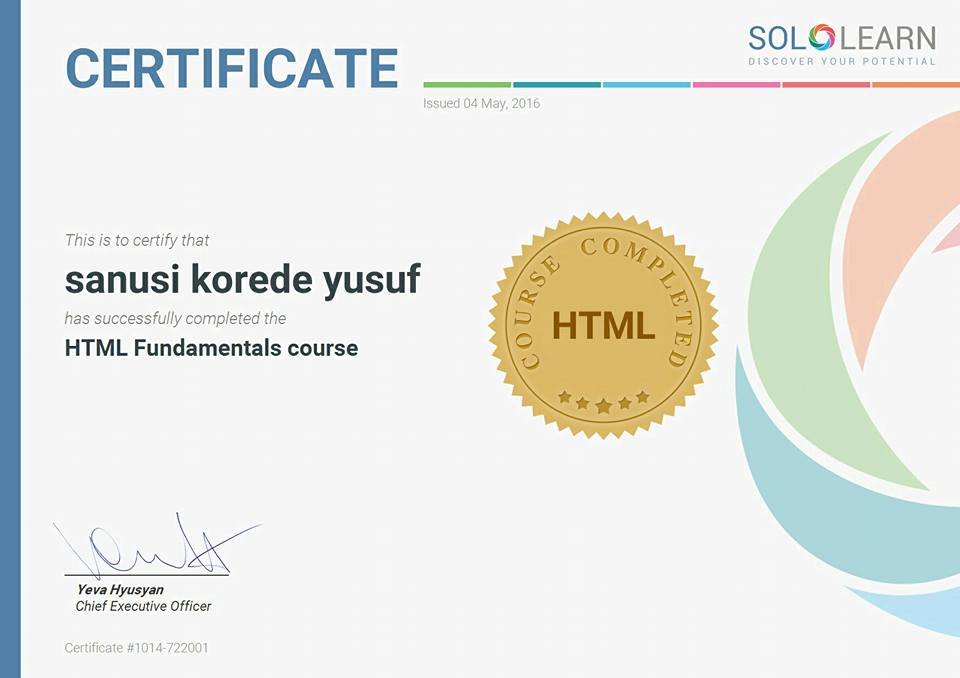
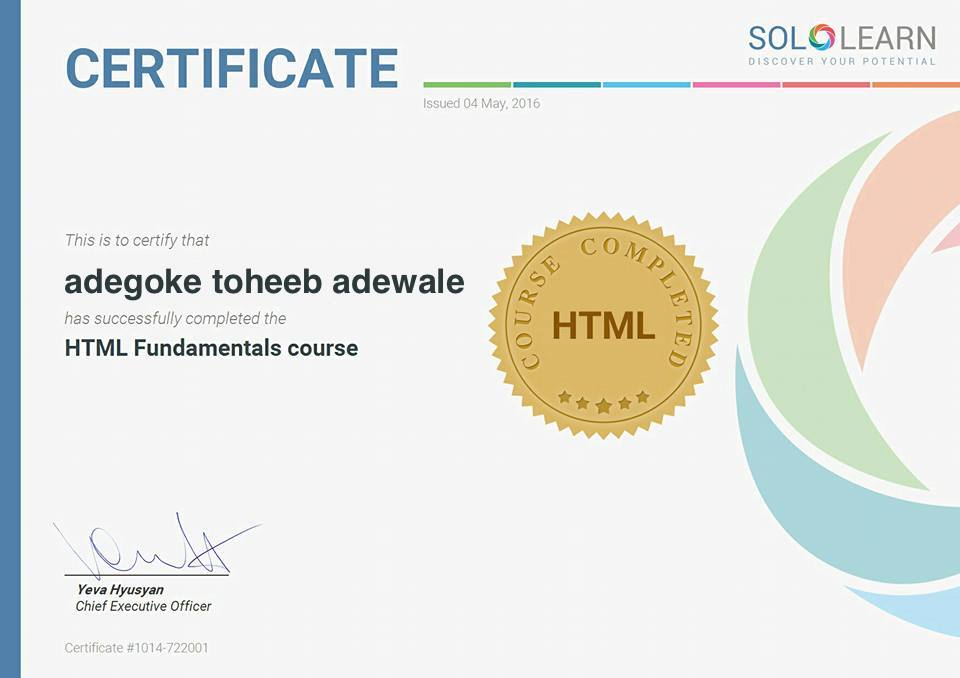
update all

Changed region(s): [[0.0625, 0.3717, 0.5, 0.4646]]

diff --git a/index.html b/index.html
@@ -1,7 +1,7 @@
 <!DOCTYPE html>
 <html lang="en">
   <head>
-    <title>Sanusi Yusuf Korede</title>
+    <title>Toheeb Adegoke</title>
     <meta charset="UTF-8" />
     <meta name="description" content="Yusuf Korede, Sanusi - Résumé" />
     <meta name="keywords" content="Yusuf Korede, Sanusi - Résumé" />
@@ -39,7 +39,7 @@
     <!--====== Header Section Start ======-->
     <header class="header-section">
       <div class="logo">
-        <a href="index.html"><img src="img/logo.png" alt="" /></a
+        <a href="index.html"><img src="img/logoTo.png" alt="" /></a
         ><!-- Logo -->
       </div>
       <!-- <div class="responsive"><i class="fa fa-bars"></i></div>-->
@@ -59,7 +59,7 @@
         <div class="intro-content">
           <div id="round"></div>
           <div class="profile-img">
-            <img src="img/3287ed42-2c28-4e80-8cf4-7c02ac6424c5.JPG" alt="" />
+            <img src="img/teeTechWF.jpg" alt="" />
           </div>
           <h2><span class="element"></span></h2>
           <br />
@@ -72,35 +72,35 @@
           <a
             class="site-btnsocialf"
             id="facebook"
-            href="https://www.facebook.com/sanusi.k.yusuf"
+            href="https://www.facebook.com/elekuja"
             target="_blank"
             ><i class="fa fa-facebook fa-4x"></i
           ></a>
           <a
             class="site-btnsocialt"
             id="twitter"
-            href="https://twitter.com/sanusikorede1"
+            href="https://twitter.com/elekujay"
             target="_blank"
             ><i class="fa fa-twitter fa-4x"></i
           ></a>
           <a
             class="site-btnsociall"
             id="linkedin"
-            href="https://www.linkedin.com/in/skyusuf15/"
+            href="https://www.linkedin.com/in/toheeb-adegoke/"
             target="_blank"
             ><i class="fa fa-linkedin fa-4x"></i
           ></a>
           <a
             class="site-btnsociall"
             id="github"
-            href="https://www.github.com/skyusuf15/"
+            href="https://www.github.com/teetech01/"
             target="_blank"
             ><i class="fa fa-github fa-4x"></i
           ></a>
           <a
             class="site-btnsocialw"
             id="whatsapp"
-            href="https://api.whatsapp.com/send?phone=2348104864908"
+            href="https://api.whatsapp.com/send?phone=2348184613415"
             target="_blank"
             ><i class="fa fa-whatsapp fa-4x"></i
           ></a>
@@ -118,29 +118,30 @@
               <h2><span id="story-heading"></span></h2>
               <p>
                 I'm <b>Adegoke Toheeb Adewale.</b> Experienced Software Engineer
-                with a demonstrated skills to tackle complex
+                with demonstrated skills to tackle complex
 				software problems and history of working in the Fintech industry. Fluent in PHP,
-				JavaScript programming languages
+				JavaScript programming languages, Microsoft .NET & Microsoft SQL Server 
 				and open to using new technology to
-				achieve business objectives. Strong engineering professional with a
-                National Diploma(ND) focused in Computer Science from Kwara
+				achieve business objectives. Strong engineering professional with Higher 
+                National Diploma(HND) focused in Computer Science from Lagos
                 State Polytechnic. 
               </p>
-
+              <br />
               <h2>Personal Achievements</h2>
               <p>
-                Asides earning a degree in Computer Science, I have a couples of
-                more programming certificate, see
-                <a href="#certificate"> below </a>. I have also built several
-                web based products, and maintained several CRM Applications for
+                Aside earning a Higher Diploma in Computer Science, I have several other trainings & certifications in Programming, Computer Hardware, Networking,
+                VPN Implemementation, Firewalling, Internet Security, VSAT Installation & Maintenance, Advanced Structured Cabling, Fiber Optics Installation Professional,
+                Data Storage, IP Surveillance project implementation, Prime Access Control with workforce Management of, see
+                <a href="#certificate"> below</a>. I have also built several
+                web based products, and maintained several CRM & ERP Applications for
                 different companies.
               </p>
 
               <p>
                 <b
                   >Current Employer:
-                  <a href="https://www.indicina.co">
-                    Indicina Technologies.
+                  <a href="https://www.dpr.gov.ng">
+                    Department of Petroleum Resources (DPR).
                   </a></b
                 >
               </p>
@@ -152,20 +153,20 @@
             <div class="col-md-5 skill">
               <div>
                 <img
-                  src="img/3287ed42-2c28-4e80-8cf4-7c02ac6424c2.JPG"
-                  alt="Sanusi Yusuf Korede"
+                  src="img/teeTechWS.JPG"
+                  alt="Toheeb Adegoke"
                 />
               </div>
               <br />
               <!-- Skill item -->
               <div class="single-progress-item">
-                <p>Laravel</p>
+                <p>Javascript/ES6</p>
                 <div class="progress-bar-style" data-progress="90"></div>
               </div>
               <!-- Skill item -->
               <div class="single-progress-item">
-                <p>Javascript/ES6</p>
-                <div class="progress-bar-style" data-progress="90"></div>
+                <p>PHP</p>
+                <div class="progress-bar-style" data-progress="80"></div>
               </div>
               <!-- Skill item -->
               <div class="single-progress-item">
@@ -174,32 +175,29 @@
               </div>
               <!-- Skill item -->
               <div class="single-progress-item">
-                <p>Python</p>
-                <div class="progress-bar-style" data-progress="67"></div>
-              </div>
-
-              <!-- Skill item -->
-              <div class="single-progress-item">
-                <p>GraphQL</p>
-                <div class="progress-bar-style" data-progress="77"></div>
-              </div>
-
-              <!-- Skill item -->
-              <div class="single-progress-item">
-                <p>Jest Testing Framework</p>
+                <p>VB .Net</p>
                 <div class="progress-bar-style" data-progress="60"></div>
               </div>
+              <!-- Skill item -->
+              <div class="single-progress-item">
+                <p>HTML</p>
+                <div class="progress-bar-style" data-progress="90"></div>
+              </div>
+              <!-- Skill item -->
+              <div class="single-progress-item">
+                <p>CSS</p>
+                <div class="progress-bar-style" data-progress="85"></div>
+              </div>
 
               <!-- Skill item -->
               <div class="single-progress-item">
-                <p>CI/CD/DevOps</p>
+                <p>Testing Framework</p>
                 <div class="progress-bar-style" data-progress="60"></div>
               </div>
-
               <!-- Skill item -->
               <div class="single-progress-item">
                 <p>Third Party Integrations</p>
-                <div class="progress-bar-style" data-progress="65"></div>
+                <div class="progress-bar-style" data-progress="70"></div>
               </div>
             </div>
           </div>
@@ -215,25 +213,6 @@
           </div>
 
           <div class="row isotope_items">
-            <!-- Work item -->
-            <div class="col-md-4 col-sm-6 col-xs-12 fs">
-              <a
-                class="work-item"
-                href="./img/certificates/42897555_2157648114305306_5266754739650953216_n.jpg"
-              >
-                <img
-                  src="./img/certificates/42897555_2157648114305306_5266754739650953216_n.jpg"
-                  alt="Issued By edX"
-                />
-                <div class="work-inner">
-                  <div class="work-info">
-                    <h2>DAT208x: Introduction to Python for Data Science</h2>
-                    <h3>View</h3>
-                  </div>
-                </div>
-              </a>
-            </div>
-
             <!-- Work item -->
             <div class="col-md-4 col-sm-6 col-xs-12 fs">
               <a
@@ -255,17 +234,39 @@
 
             <!-- Work item -->
             <div class="col-md-4 col-sm-6 col-xs-12 fs">
+
+              <a
+              class="work-item"
+              href="./img/certificates/personal docx-19.jpg"
+            >
+              <img
+                src="./img/certificates/personal docx-19.jpg"
+                alt="Issued By NaijaHack"
+              />
+              <div class="work-inner">
+                <div class="work-info">
+                  <h2>2018 NAIJAHACKS HACKATON NIGERIA</h2>
+                  <h3>View</h3>
+                </div>
+              </div>
+            </a>
+
+
+            </div>
+
+            <!-- Work item -->
+            <div class="col-md-4 col-sm-6 col-xs-12 fs">
               <a
                 class="work-item"
-                href="./img/certificates/39953565_2094150053988446_9071326221731627008_n.jpg"
+                href="./img/certificates/personal docx-15.jpg"
               >
                 <img
-                  src="./img/certificates/39953565_2094150053988446_9071326221731627008_n.jpg"
-                  alt="Issued by United Global Resources Limited"
+                  src="./img/certificates/personal docx-15.jpg"
+                  alt="Issued by Kit Technologies Limited"
                 />
                 <div class="work-inner">
                   <div class="work-info">
-                    <h2>ORACLE JAVA SE7 FUNDAMENTALS & PROGRAMMING</h2>
+                    <h2>DATA STORAGE & DISASTER RECOVERY</h2>
                     <h3>View</h3>
                   </div>
                 </div>
@@ -400,6 +401,45 @@
                 </div>
               </a>
             </div>
+
+            <!-- Work item -->
+            <div class="col-md-4 col-sm-6 col-xs-12 ill">
+              <a
+                class="work-item"
+                href="./img/certificates/personal docx-16.jpg"
+              >
+                <img
+                  src="./img/certificates/personal docx-16.jpg"
+                  alt="Issued by Solo Learn"
+                />
+                <div class="work-inner">
+                  <div class="work-info">
+                    <h2>VSAT Earth Station Installation</h2>
+                    <h3>View</h3>
+                  </div>
+                </div>
+              </a>
+            </div>
+
+            <!-- Work item -->
+            <div class="col-md-4 col-sm-6 col-xs-12 ill">
+              <a
+                class="work-item"
+                href="./img/certificates/personal docx-17.jpg"
+              >
+                <img
+                  src="./img/certificates/personal docx-17.jpg"
+                  alt="Issued by Solo Learn"
+                />
+                <div class="work-inner">
+                  <div class="work-info">
+                    <h2>Premise Access Control</h2>
+                    <h3>View</h3>
+                  </div>
+                </div>
+              </a>
+            </div>
+
           </div>
         </div>
       </section>

diff --git a/js/main.js b/js/main.js
@@ -67,7 +67,7 @@ $(window).on('load', function() {
 		TYPED JS
 	--------------------*/
 	$(".element").typed({
-		strings: ["I'm Yusuf Korede, Sanusi.", "a Flexible Software Engineer/FullStack Engineer,", "From Lagos, Nigeria."],
+		strings: ["I'm Toheeb Adewale, Adegoke.", "a Flexible Software/FullStack Engineer", "genuinely passionate about Technology", "From Lagos, Nigeria."],
 		typeSpeed: 10,
 		loop:true,
 		backDelay: 2000
